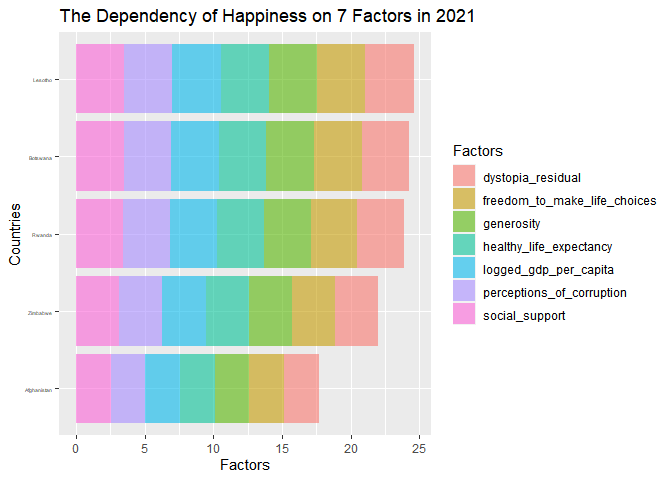
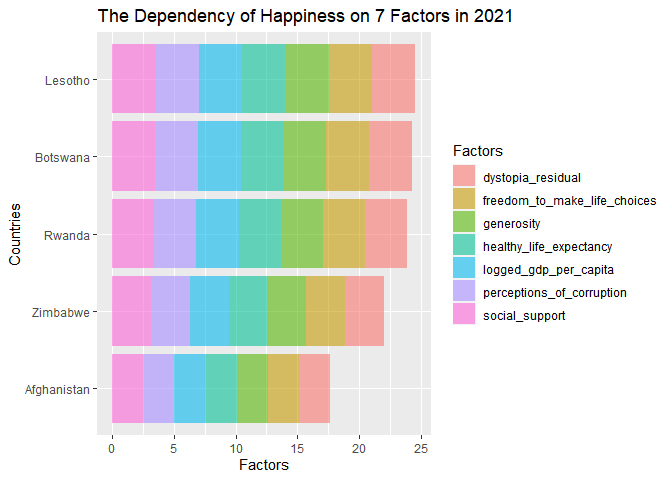
update

diff --git a/happiness_finder/happy_project/Kyra/K-Happy-Analysis-copy.html b/happiness_finder/happy_project/Kyra/K-Happy-Analysis-copy.html
@@ -12195,9 +12195,8 @@ pivot_longer (-c(country_name,year,ladder_score),
   ggplot(aes(x=reorder(country_name,ladder_score),country_name,y=ladder_score, fill=Factors))+
    geom_col(alpha=0.59)+
   coord_flip()+
-  labs(title = &quot;The Dependency of Happiness on 7 Factors in 2021&quot;, x= &quot;Countries&quot;, y=&quot;Factors&quot;)+
-  theme(axis.text.y =element_text(size=3.5))</code></pre>
[1 lines of base64/hex data omitted]
+  labs(title = &quot;The Dependency of Happiness on 7 Factors in 2021&quot;, x= &quot;Countries&quot;, y=&quot;Factors&quot;)</code></pre>
[1 lines of base64/hex data omitted]
 <pre class="r"><code>revampbottom5</code></pre>
 <pre><code>## # A tibble: 35 × 5
 ## # Groups:   country_name [5]

diff --git a/happiness_finder/happy_project/Kyra/K-Happy-Analysis-copy.md b/happiness_finder/happy_project/Kyra/K-Happy-Analysis-copy.md
@@ -12043,8 +12043,7 @@ pivot_longer (-c(country_name,year,ladder_score),
   ggplot(aes(x=reorder(country_name,ladder_score),country_name,y=ladder_score, fill=Factors))+
    geom_col(alpha=0.59)+
   coord_flip()+
-  labs(title = "The Dependency of Happiness on 7 Factors in 2021", x= "Countries", y="Factors")+
-  theme(axis.text.y =element_text(size=3.5))
+  labs(title = "The Dependency of Happiness on 7 Factors in 2021", x= "Countries", y="Factors")
 ```
 
 ![](K-Happy-Analysis-copy_files/figure-html/unnamed-chunk-28-1.png)<!-- -->
